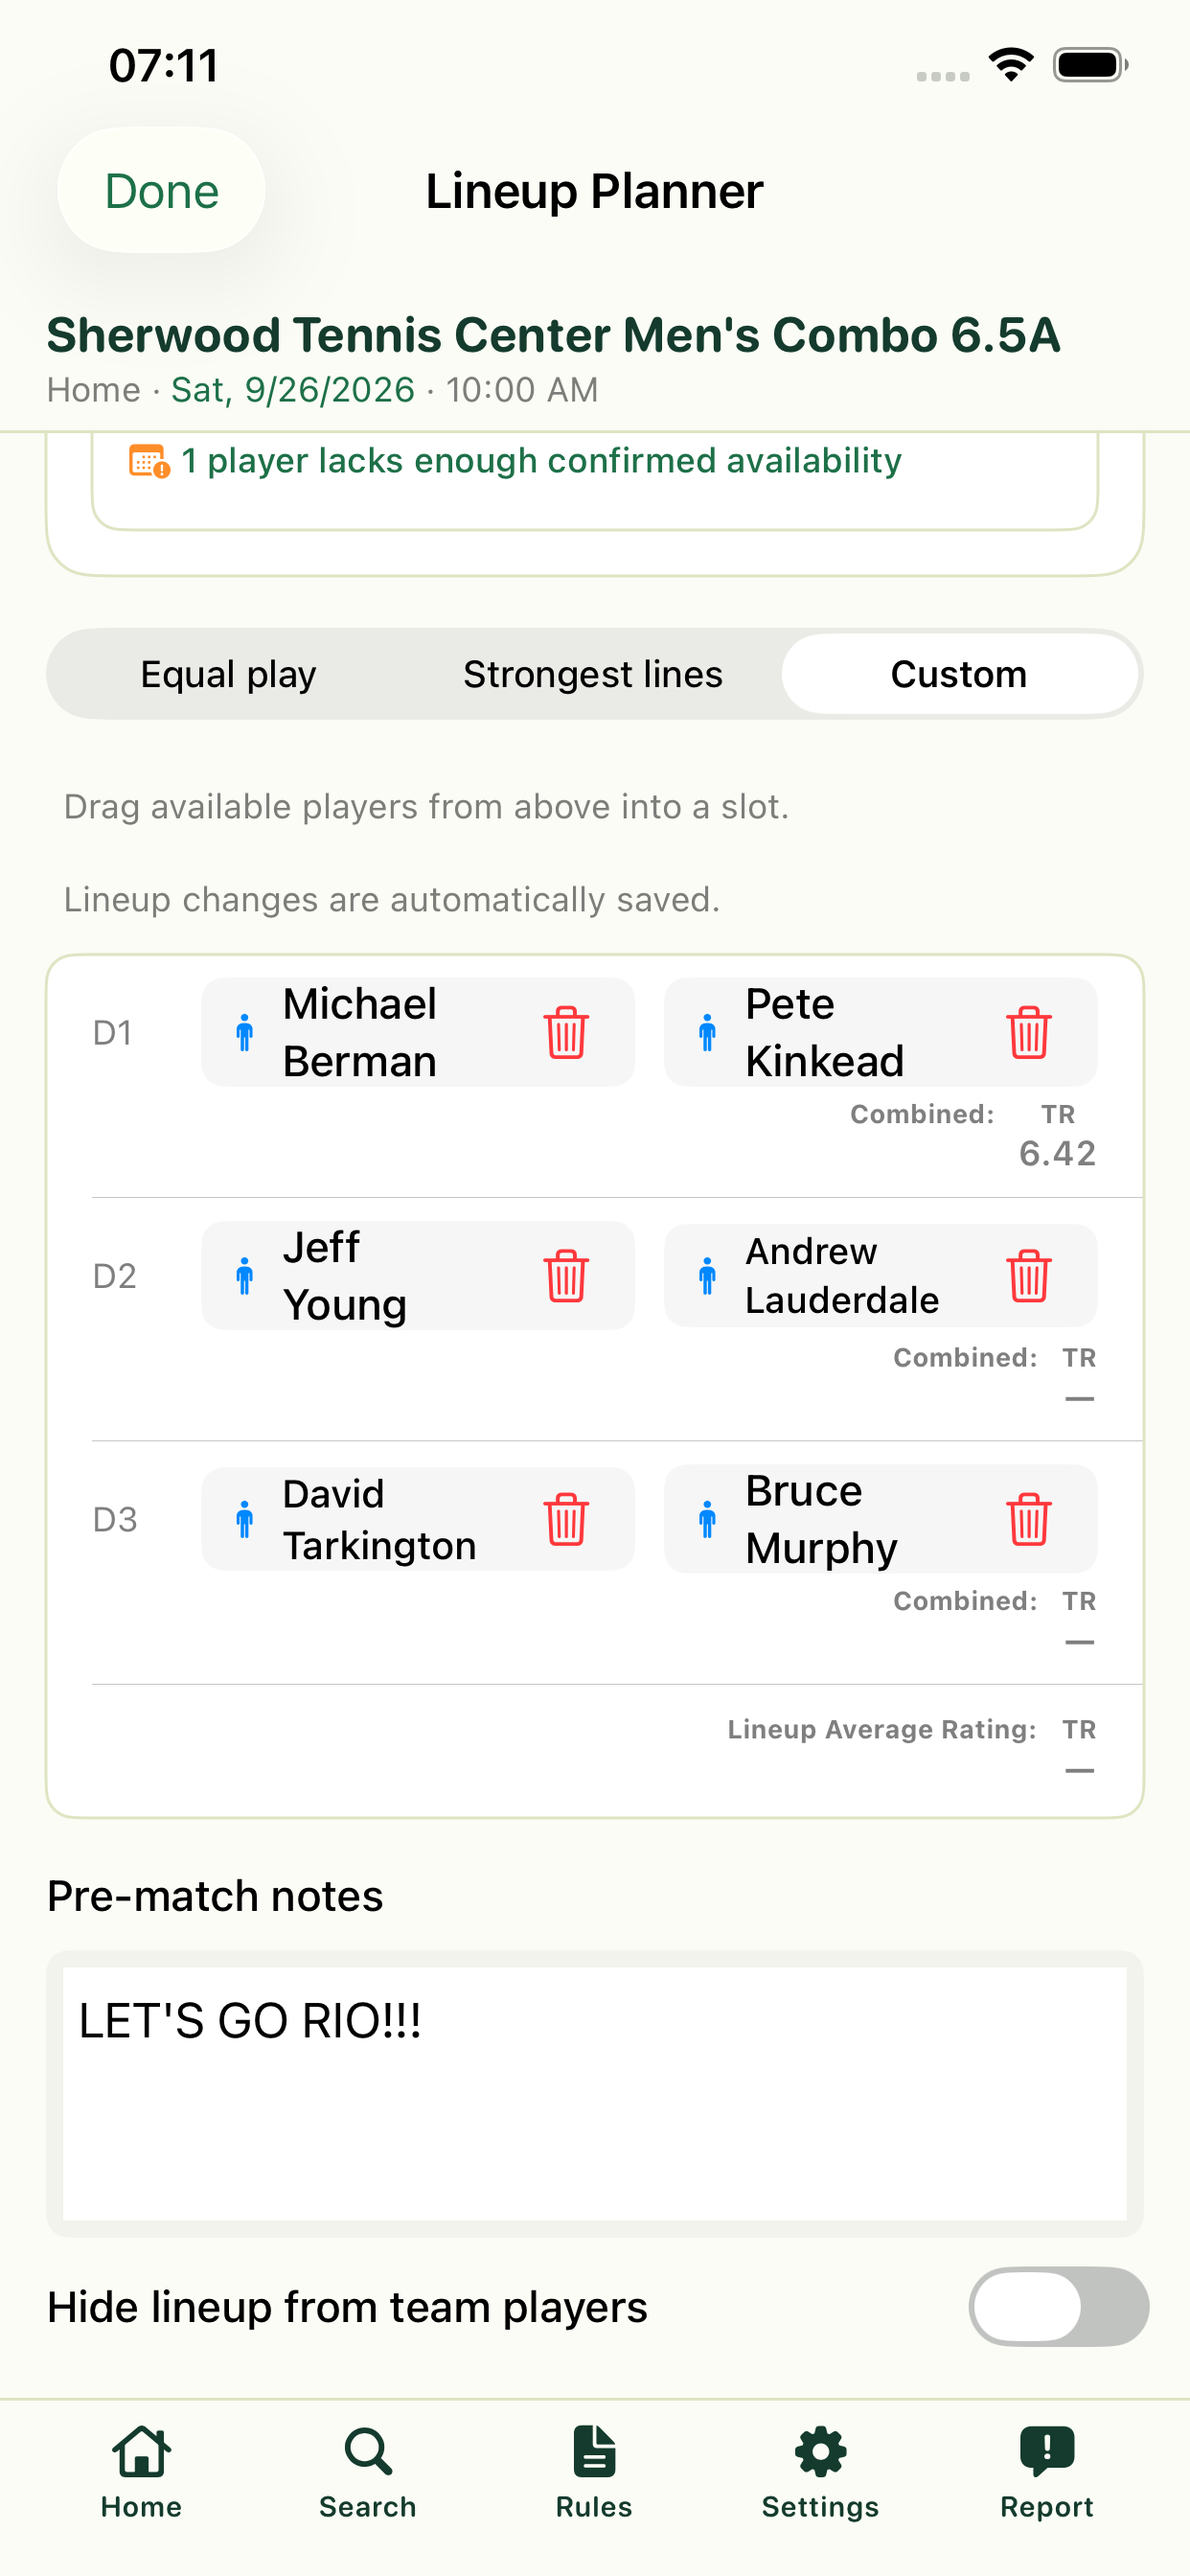
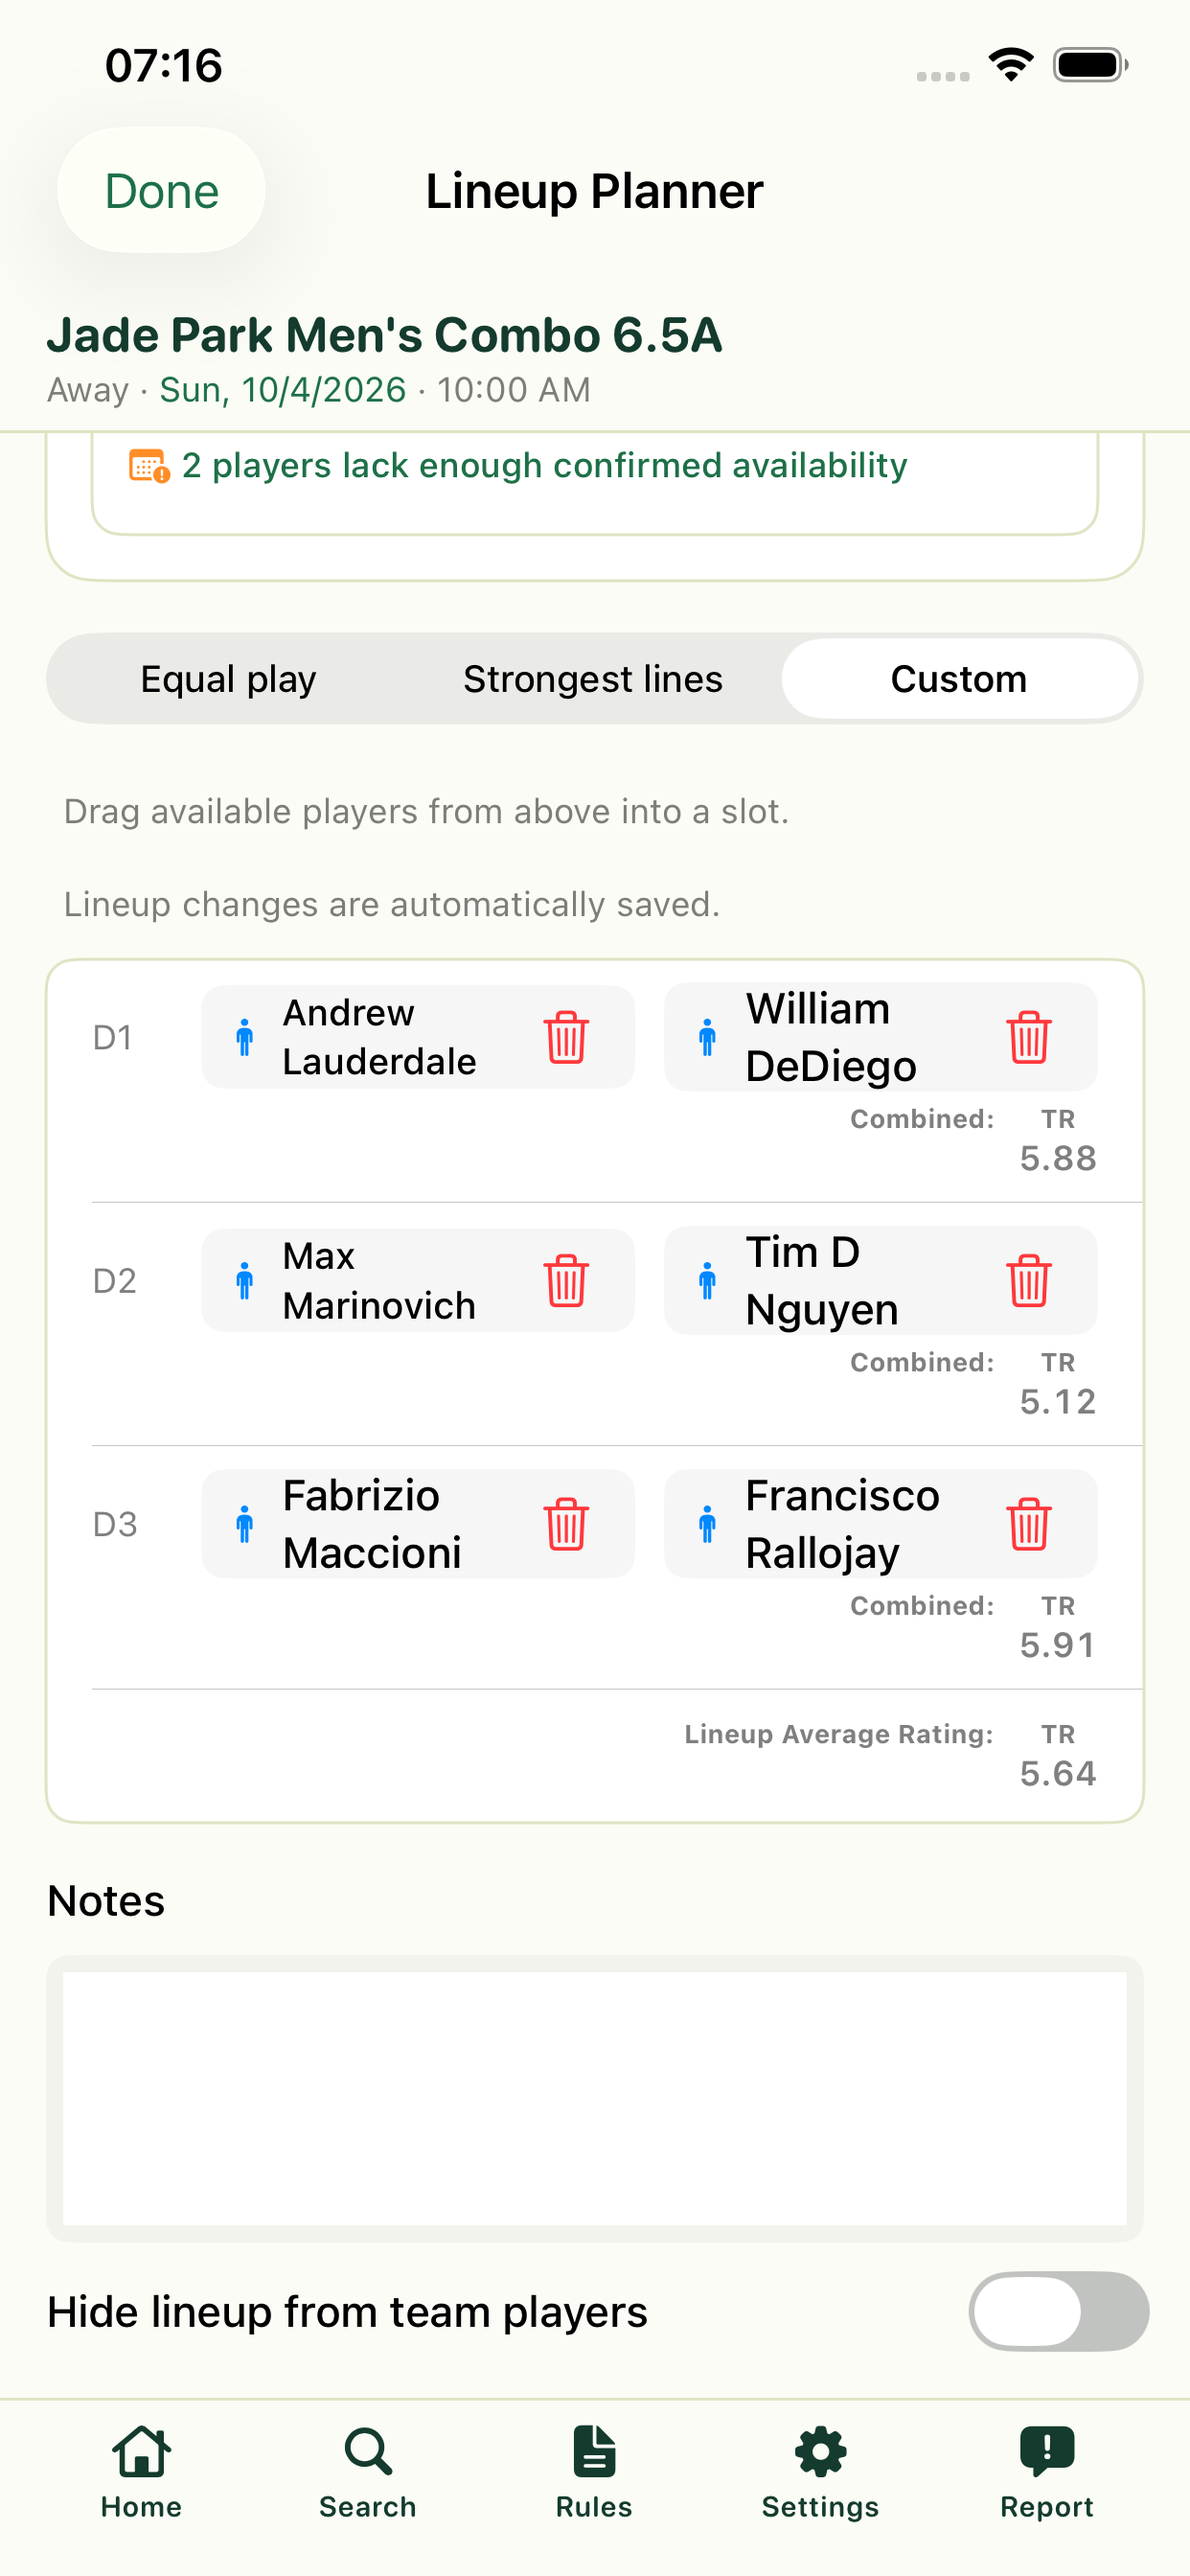
Refresh compact availability and captain lineup screenshots

diff --git a/net-results/index.html b/net-results/index.html
@@ -518,7 +518,7 @@
             <ul>
               <li>Upcoming matches across your teams in date order</li>
               <li>Filter by team level and venue</li>
-              <li>Open lineup and availability controls from your profile</li>
+              <li>Manage availability across matches in compact cards</li>
             </ul>
           </article>
 
@@ -711,7 +711,7 @@
             <img src="screenshots/07-player-match-filters.png" alt="Past results filtered by venue, with all four filters, highlighted totals, and a complete match result" width="1242" height="2688" loading="lazy">
           </button>
           <button class="carousel-shot" type="button" data-index="4" tabindex="-1" aria-label="Show feature: See what’s next on court">
-            <img src="screenshots/21-future-matches.png" alt="Future matches tab with team level and venue filters, lineup planning, and personal and team availability controls" width="1242" height="2688" loading="lazy">
+            <img src="screenshots/21-future-matches.png" alt="Future matches with team level and venue filters, Manage availability enabled, and compact match cards with availability choices" width="1242" height="2688" loading="lazy">
           </button>
           <button class="carousel-shot" type="button" data-index="5" tabindex="-1" aria-label="Show feature: All your teams, one view">
             <img src="screenshots/01-home-team-expanded.png" alt="Profile with teams expanded" width="1242" height="2688" loading="lazy">
